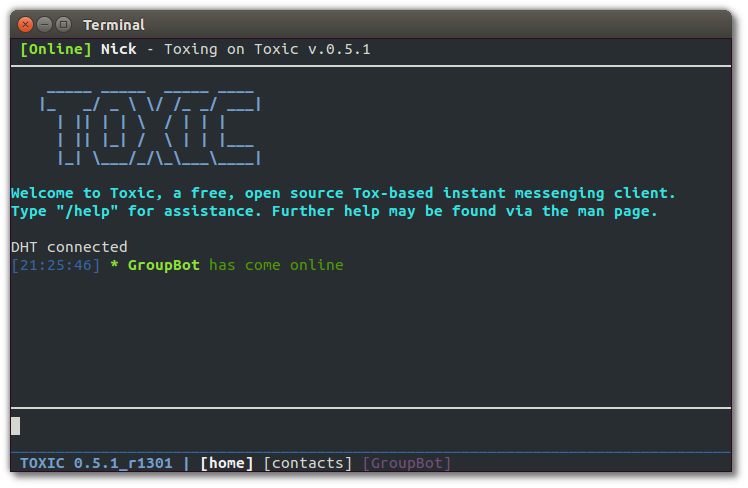
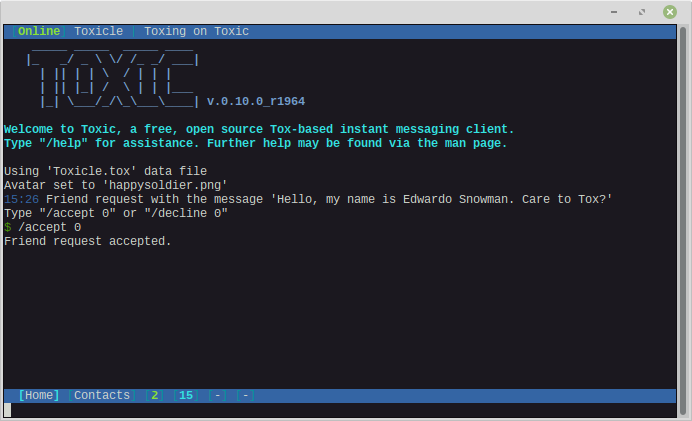
Update clients page
- Updated the descriptions and maintainers for Toxic and qTox
- Removed unmaintained clients (Toxygen and uTox)
- Updated Toxic's thumbnail image

Changed region(s): [[0.0, 0.0, 1.0, 1.0]]

diff --git a/themes/website/templates/clients.html b/themes/website/templates/clients.html
@@ -15,16 +15,12 @@
 				<table class="table table-condensed">
 					<tbody>
 						<tr>
-							<th>Website:</th>
-							<th><a href="https://qtox.github.io">https://qtox.github.io</a>
-						</tr>
-						<tr>
 							<th>Repository:</th>
-							<th><a href="https://github.com/qTox/qTox">https://github.com/qTox/qTox</a></th>
+							<th><a href="https://github.com/toktok/qTox">https://github.com/toktok/qTox</a></th>
 						</tr>
 						<tr>
 							<th>Maintainers:</th>
-							<th>Unmaintained</th>
+							<th>The TokTok team</th>
 						</tr>
 						<tr>
 							<th>Language:</th>
@@ -46,74 +42,6 @@
 
 			<hr>
 
-			<div id="utox" class="row">
-				<a href="#utox-images" class="img-container"><img src="theme/img/client/utox_mac.png"></a>
-				<h2 class="header">uTox</h2>
-
-				<table class="table table-condensed">
-					<tbody>
-						<tr>
-							<th>Repository:</th>
-							<th><a href="https://github.com/uTox/uTox">https://github.com/uTox/uTox</a></th>
-						</tr>
-						<tr>
-							<th>Maintainers:</th>
-							<th>Unmaintained</th>
-						</tr>
-						<tr>
-							<th>Language:</th>
-							<th>C</th>
-						</tr>
-						<tr>
-							<th>Graphical Toolkit:</th>
-							<th>None (Xlib)</th>
-						</tr>
-						<tr>
-							<th>Operating Systems:</th>
-							<th>Linux, Windows, macOS, BSD</th>
-						</tr>
-					</tbody>
-				</table>
-
-				<p class="lead">µTox is the lightweight client with minimal dependencies; it not only looks pretty, it runs fast! µTox is available for Windows, OS X, and Linux, with full support for chat, file transfers, audio/video calling, and desktop sharing (both as video and inline screenshots). It also supports text group chats with audio groups pending the next Toxcore update.</p>
-			</div>
-
-			<hr>
-
-			<div id="toxygen" class="row">
-				<a href="#toxygen-images" class="img-container"><img src="theme/img/client/toxygen_1.png"></a>
-				<h2 class="header">Toxygen</h2>
-
-				<table class="table table-condensed">
-					<tbody>
-						<tr>
-							<th>Repository:</th>
-							<th><a href="https://github.com/toxygen-project/toxygen">https://github.com/toxygen-project/toxygen</a></th>
-						</tr>
-						<tr>
-							<th>Maintainers:</th>
-							<th><a href="https://github.com/ingvar1995">Ingvar</a>
-						</tr>
-						<tr>
-							<th>Language:</th>
-							<th>Python3</th>
-						</tr>
-						<tr>
-							<th>Graphical Toolkit:</th>
-							<th><a href="http://www.pyside.org/">PySide</a></th>
-						</tr>
-						<tr>
-							<th>Operating Systems:</th>
-							<th>Linux, Windows</th>
-						</tr>
-					</tbody>
-				</table>
-
-				<p class="lead">Toxygen is cross-platform Tox client written in pure Python3 with a lot of unique features such as plugins and faux offline file transfers. Development is led by Ingvar.</p>
-			</div>
-
-			<hr>
-
 			<div id="toxic" class="row">
 				<a href="#toxic-images" class="img-container"><img src="theme/img/client/toxic_linux.png"></a>
 				<h2 class="header">Toxic</h2>
@@ -126,7 +54,7 @@
 						</tr>
 						<tr>
 							<th>Maintainers:</th>
-							<th><a href="https://wiki.tox.chat/wiki/user/jfreegman">Jfreegman</a>, <a href="https://github.com/mannol">mannol</a></th>
+                            <th><a href="https://github.com/jfreegman">Jfreegman</a></th>
 						</tr>
 						<tr>
 							<th>Language:</th>
@@ -143,7 +71,7 @@
 					</tbody>
 				</table>
 
-				<p class="lead">Toxic is a client with an ncurses interface, written entirely in C. It has support for all basic features, as well as 1-on-1 audio/video chats, and is capable of working on bare-bones systems that lack graphical interfaces. Development is lead by Jfreegman.</p>
+				<p class="lead">Toxic is a client with an ncurses interface, written entirely in C. It has support for all basic features, as well as 1-on-1 audio/video chats, audio conferences, and public groupchats. Toxic is capable of working on bare-bones systems that lack a graphical interface.</p>
 			</div>
 
 			<hr>
@@ -213,28 +141,8 @@
 					</tr>
 
 					<tr>
-						<th>uTox</th>
-						<th class="success">Yes</th>
-						<th class="success">Yes</th>
-						<th class="success">Yes</th>
-						<th class="success">Yes</th>
-						<th class="danger">No</th>
-						<th class="danger">No</th>
-					</tr>
-
-					<tr>
-						<th>Toxygen</th>
-						<th class="success">Yes</th>
-						<th class="success">Yes</th>
-						<th class="danger">No</th>
-						<th class="danger">No</th>
-						<th class="danger">No</th>
-						<th class="danger">No</th>
-					</tr>
-
-					<tr>
 						<th>Toxic</th>
-						<th class="danger">No</th>
+						<th class="warning">Yes (via WSL)</th>
 						<th class="success">Yes</th>
 						<th class="success">Yes</th>
 						<th class="success">Yes</th>
@@ -273,55 +181,6 @@
 						<ul>
 							<li><div><img src="theme/img/client/qtox_mac.png"></div></li>
 							<li><div><img src="theme/img/client/qtox_linux.png"></div></li>
-						</ul>
-					</div>
-				</div>
-			</div>
-		</div>
-
-		<div id="utox-images" class="modalDialog button">
-			<div>
-				<a href="#close" class="close-overlay"></a>
-				<a href="#close" title="Close" class="close"><span class="fa fa-close">&nbsp;</span></a>
-
-				<div class="slider">
-					<input type="radio" id="utox-images-control1" name="utox-images-controls" checked="checked">
-					<label for="utox-images-control1"></label>
-					<input type="radio" id="utox-images-control2" name="utox-images-controls">
-					<label for="utox-images-control2"></label>
-					<input type="radio" id="utox-images-control3" name="utox-images-controls">
-					<label for="utox-images-control3"></label>
-
-					<div class="sliderinner">
-						<ul>
-							<li><div><img src="theme/img/client/utox_mac.png"></div></li>
-							<li><div><img src="theme/img/client/utox_linux.png"></div></li>
-							<li><div><img src="theme/img/client/utox_windows.png"></div></li>
-						</ul>
-					</div>
-				</div>
-			</div>
-		</div>
-
-
-		<div id="toxygen-images" class="modalDialog button">
-			<div>
-				<a href="#close" class="close-overlay"></a>
-				<a href="#close" title="Close" class="close"><span class="fa fa-close">&nbsp;</span></a>
-
-				<div class="slider">
-					<input type="radio" id="toxygen-images-control1" name="toxygen-images-controls" checked="checked">
-					<label for="toxygen-images-control1"></label>
-					<input type="radio" id="toxygen-images-control2" name="toxygen-images-controls">
-					<label for="toxygen-images-control2"></label>
-					<input type="radio" id="toxygen-images-control3" name="toxygen-images-controls">
-					<label for="toxygen-images-control3"></label>
-
-					<div class="sliderinner">
-						<ul>
-							<li><div><img src="theme/img/client/toxygen_1.png"></div></li>
-							<li><div><img src="theme/img/client/toxygen_2.png"></div></li>
-							<li><div><img src="theme/img/client/toxygen_3.png"></div></li>
 						</ul>
 					</div>
 				</div>
